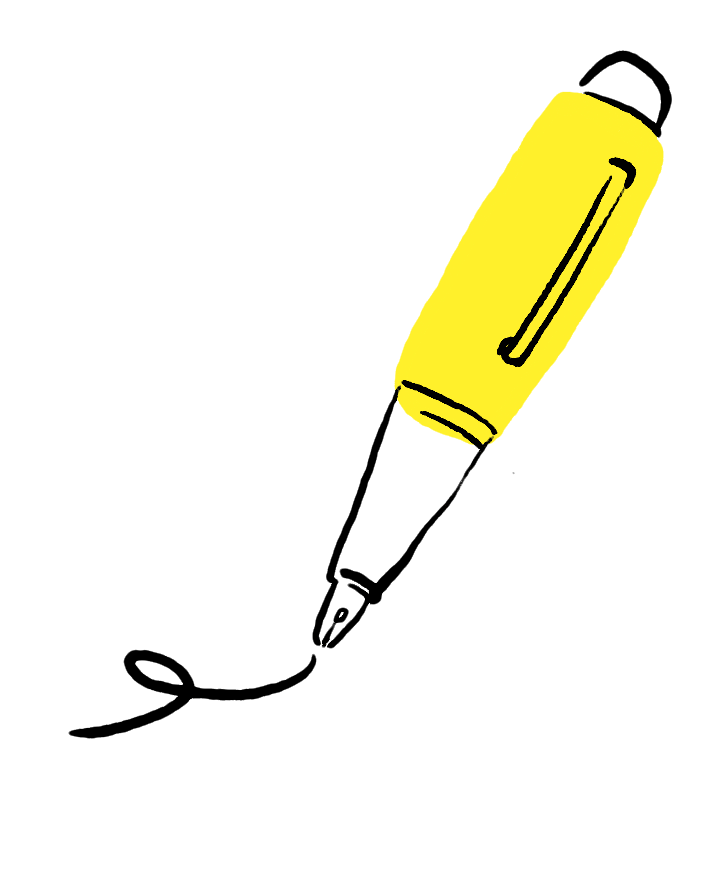
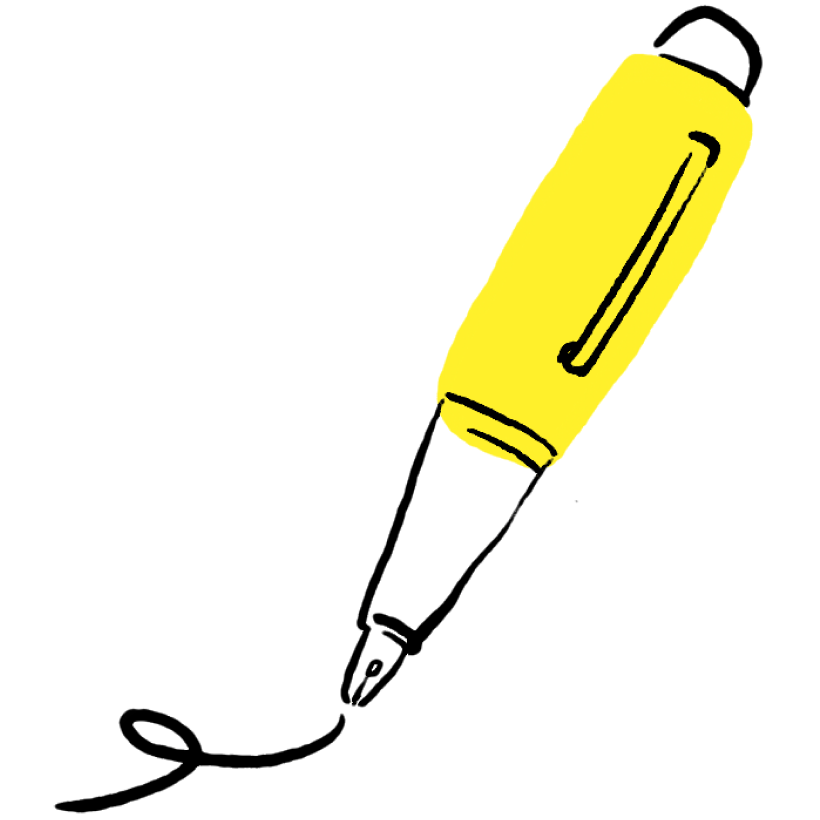
Much more vibrant hero

Changed region(s): [[0.061, 0.0, 0.9459, 1.0], [0.5798, 0.3049, 0.6103, 0.3659], [0.5492, 0.3659, 0.5798, 0.3963]]

diff --git a/pages/index.vue b/pages/index.vue
@@ -3,11 +3,28 @@
   <JoinPopup />
 
   <main id="Hero" :class="{'scrolled': isScrolled}">
+    <section id="Illustrations">
+      <img src="/images/pen.png" class="pen">
+      <img src="/images/folder.png" class="folder">
+    </section>
+    <section id="Sparks">
+      <img src="/images/spark1.png" class="spark1">
+      <img src="/images/spark2.png" class="spark2">
+      <img src="/images/spark3.png" class="spark3">
+      <img src="/images/spark4.png" class="spark4">
+      <img src="/images/spark5.png" class="spark5">
+      <img src="/images/spark1.png" class="spark6">
+      <img src="/images/spark2.png" class="spark7">
+      <img src="/images/spark3.png" class="spark8">
+      <img src="/images/spark4.png" class="spark9">
+      <img src="/images/spark5.png" class="spark10">
+      <img src="/images/spark2.png" class="spark11">
+      <img src="/images/spark1.png" class="spark12">
+    </section>
     <!-- <section id="Witch">
       <img src="/images/excitement.png" class="excitement">
       <img src="/images/man.png" class="man">
       <img src="/images/skull.png" class="skull">
-      
       <img src="/images/spark1.png" class="spark1">
       <img src="/images/spark2.png" class="spark2">
       <img src="/images/spark3.png" class="spark3">
@@ -202,7 +219,9 @@ const handleScroll = () => {
   if (isInView.value) {
     const scrollY = window.scrollY;
     const translateY = scrollY * -0.25;
+    const translateYSparks = scrollY * -0.5;
     document.documentElement.style.setProperty('--element-translate-y', `${translateY}px`);
+    document.documentElement.style.setProperty('--element-translate-y-sparks', `${translateYSparks}px`);
   }
 };
 
@@ -349,6 +368,253 @@ const { joining } = storeToRefs(joinStore);
     padding: 0 $spacing-md;
   }
 
+  #Illustrations {
+    position: absolute;
+    top: 0;
+    left: 0;
+    width: 100%;
+    height: 100%;
+    pointer-events: none;
+    z-index: 10;
+    transform: translateY(var(--element-translate-y));
+
+    img {
+      position: absolute;
+      opacity: 0;
+      animation: spark .45s forwards;
+      animation-delay: .8s;
+      transform: scale(0);
+
+      &.pen {
+        top: 30%;
+        right: 10%;
+        width: 15vw;
+        height: 15vw;
+        animation: spark .45s forwards;
+        animation-delay: 1.2s;
+        opacity: 0;
+        transform: scale(0);
+
+        @media (max-width: 1000px) {
+          display: none;
+        }
+      }
+
+      &.folder {
+        top: 70%;
+        left: 10%;
+        width: 15vw;
+        height: 15vw;
+        animation: spark .45s forwards;
+        animation-delay: 1.2s;
+        opacity: 0;
+        transform: scale(0);
+
+        @media (max-width: 1000px) {
+          display: none;
+        }
+      }
+    }
+  }
+
+  #Sparks {
+    position: absolute;
+    top: 0;
+    left: 0;
+    width: 100%;
+    height: 100%;
+    pointer-events: none;
+    transform: translateY(var(--element-translate-y-sparks));
+
+    img {
+      position: absolute;
+      opacity: 0;
+      animation: spark .45s forwards;
+      animation-delay: .8s;
+      transform: scale(0);
+
+      &.spark1 {
+        top: 10%;
+        left: 10%;
+        width: 2.4vw;
+        height: 2.4vw;
+        animation: spark .45s forwards;
+        animation-delay: 1.2s;
+        opacity: 0;
+        transform: scale(0);
+
+        @media (max-width: 1000px) {
+          display: none;
+        }
+      }
+
+      &.spark2 {
+        top: 40%;
+        left: 20%;
+        width: 3.4vw;
+        height: 3.4vw;
+        animation: spark .45s forwards;
+        animation-delay: .9s;
+        opacity: 0;
+        transform: scale(0);
+
+        @media (max-width: 1000px) {
+          display: none;
+        }
+      }
+
+      &.spark3 {
+        top: 22%;
+        right: 6%;
+        width: 2.4vw;
+        height: 2.4vw;
+        animation: spark .45s forwards;
+        animation-delay: 1s;
+        opacity: 0;
+        transform: scale(0);
+
+        @media (max-width: 1000px) {
+          display: none;
+        }
+      }
+
+      &.spark4 {
+        top: 105%;
+        left: 30%;
+        width: 2.4vw;
+        height: 2.4vw;
+        animation: spark .45s forwards;
+        animation-delay: 1.1s;
+        opacity: 0;
+        transform: scale(0);
+
+        @media (max-width: 1000px) {
+          display: none;
+        }
+      }
+
+      &.spark5 {
+        top: 90%;
+        right: 20%;
+        width: 2.4vw;
+        height: 2.4vw;
+        animation: spark .45s forwards;
+        animation-delay: 1.2s;
+        opacity: 0;
+        transform: scale(0);
+
+        @media (max-width: 1000px) {
+          display: none;
+        }
+      }
+
+      &.spark6 {
+        top: 60%;
+        left: -2%;
+        width: 5.4vw;
+        height: 5.4vw;
+        animation: spark .45s forwards;
+        animation-delay: 1.2s;
+        opacity: 0;
+        transform: scale(0);
+
+        @media (max-width: 1000px) {
+          display: none;
+        }
+      }
+
+      &.spark7 {
+        top: 0%;
+        left: 32%;
+        width: 5.4vw;
+        height: 5.4vw;
+        animation: spark .45s forwards;
+        animation-delay: .9s;
+        opacity: 0;
+        transform: scale(0);
+
+        @media (max-width: 1000px) {
+          display: none;
+        }
+      }
+
+      &.spark8 {
+        top: 42%;
+        left: 02%;
+        width: 3.4vw;
+        height: 3.4vw;
+        animation: spark .45s forwards;
+        animation-delay: 1s;
+        opacity: 0;
+        transform: scale(0);
+
+        @media (max-width: 1000px) {
+          display: none;
+        }
+      }
+
+      &.spark9 {
+        top: 15%;
+        left: 70%;
+        width: 4.4vw;
+        height: 4.4vw;
+        animation: spark .45s forwards;
+        animation-delay: 1.1s;
+        opacity: 0;
+        transform: scale(0);
+
+        @media (max-width: 1000px) {
+          display: none;
+        }
+      }
+
+      &.spark10 {
+        top: 20%;
+        right: 40%;
+        width: 2.4vw;
+        height: 2.4vw;
+        animation: spark .45s forwards;
+        animation-delay: 1.2s;
+        opacity: 0;
+        transform: scale(0);
+
+        @media (max-width: 1000px) {
+          display: none;
+        }
+      }
+
+      &.spark11 {
+        top: -3%;
+        right: 14%;
+        width: 4.4vw;
+        height: 4.4vw;
+        animation: spark .45s forwards;
+        animation-delay: 1.1s;
+        opacity: 0;
+        transform: scale(0);
+
+        @media (max-width: 1000px) {
+          display: none;
+        }
+      }
+
+      &.spark12 {
+        top: 60%;
+        right: 10%;
+        width: 5.4vw;
+        height: 5.4vw;
+        animation: spark .45s forwards;
+        animation-delay: 1.2s;
+        opacity: 0;
+        transform: scale(0);
+
+        @media (max-width: 1000px) {
+          display: none;
+        }
+      }
+    }
+  }
+
   #HeroVideo {
     width: 35%;
     height: auto;
@@ -359,6 +625,8 @@ const { joining } = storeToRefs(joinStore);
 
     video {
       width: 100%;
+      min-width: 300px;
+      max-width: 600px;
       height: auto;
     }
   }

diff --git a/components/Logo.vue b/components/Logo.vue
@@ -43,7 +43,7 @@ defineProps({
 }
 
 .small {
-  width: 80px;
+  width: 120px;
 }
 
 .large {
